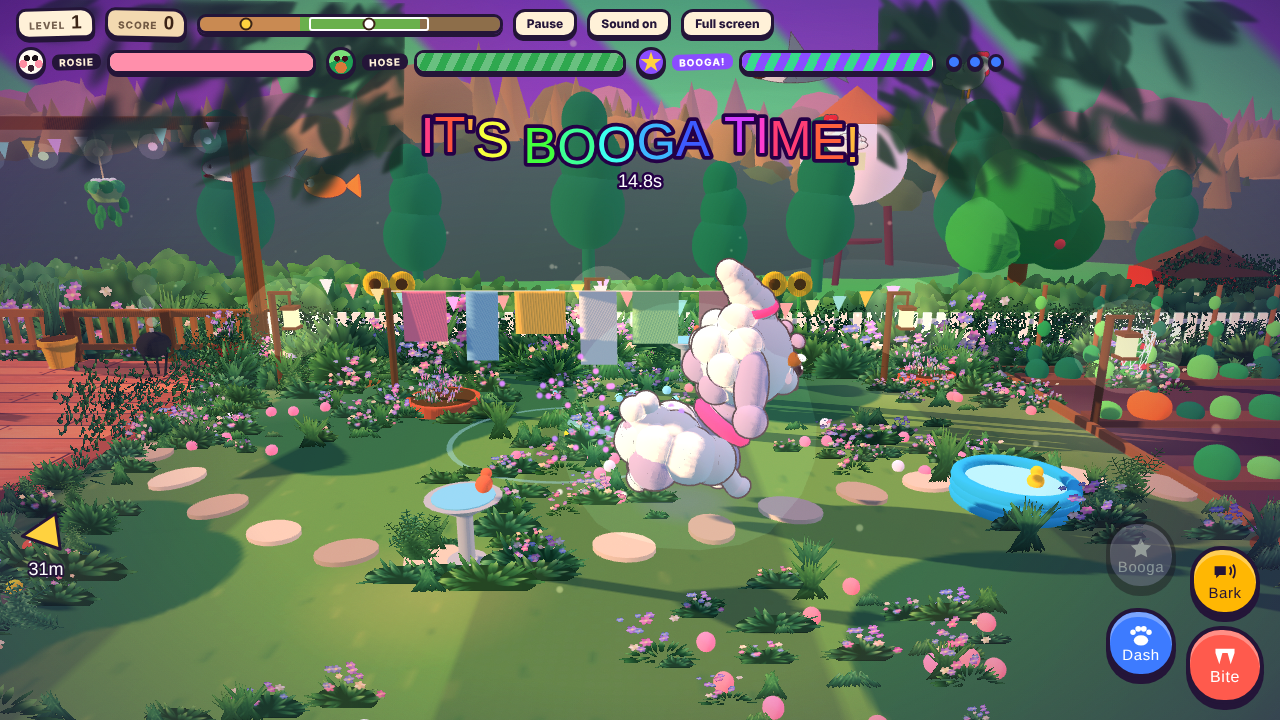
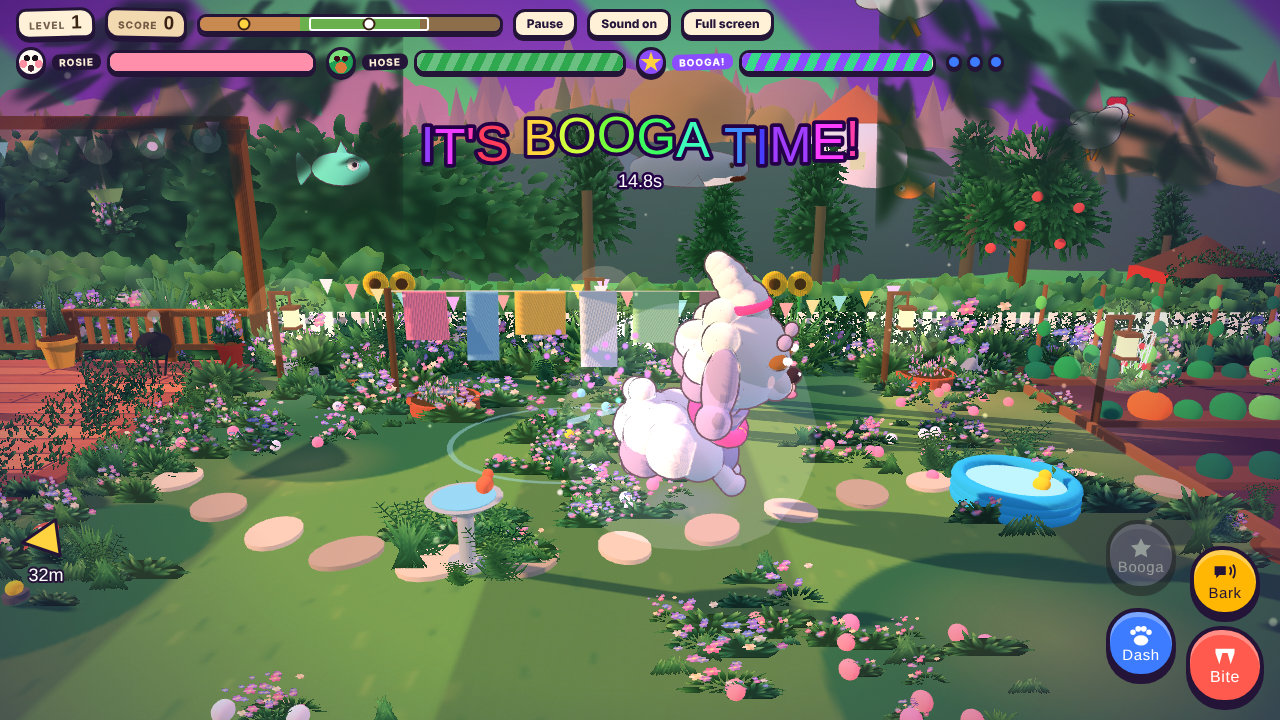
feat: repaint the yard as a painted garden
Builds design/art/painted-garden.md. A 1024 atlas painted at runtime
from individual tapered leaf and petal strokes feeds about 1,650
alpha-tested billboard plants in a single draw call, replacing the fence
shrubs, flower rosettes, pot plants, hanging baskets, tomato cages,
poplars and the apple tree. Two blurred leaf masses parented to the
camera frame the shot and get out of the way under a telegraph.

The silhouettes are ragged at every depth now, which was the diagnosis:
the gap was edge quality and empty ground, not colour.

Draw calls fall from 535 to 300, because one instanced billboard mesh
replaces hundreds of primitive solids.

Flagged honestly: the fight harness could not be run this session, and
times out identically on the pre-pass backup, so it is unverified rather
than passing. Diggy-Down's 712px overshoot is unchanged.

Refs: design/art/painted-garden.md

Claude-Session: https://claude.ai/code/session_01JR8fsw3Uh5kViP8MJWMfnz

diff --git a/src/index.html b/src/index.html
@@ -1399,11 +1399,12 @@ const FANU={a:{value:new THREE.Vector4(0,0,1,0)},b:{value:new THREE.Vector4(0,0,
    the leaves. alphaTest .5 / transparent false: no sorting, still writes depth, Rosie stays occluded
    correctly. uFanA/uFanB squash any plant standing inside a live telegraph to a quarter height so a
    warning can never lose to a flower (section 3). */
-function folMat(bb){
-  const m=new THREE.MeshToonMaterial({map:FOL_TEX,gradientMap:RAMP,alphaTest:.5,transparent:false,side:THREE.DoubleSide});
+function folMat(bb,mp,cs){
+  const CS=(cs||.25).toFixed(4);
+  const m=new THREE.MeshToonMaterial({map:mp||FOL_TEX,gradientMap:RAMP,alphaTest:.5,transparent:false,side:THREE.DoubleSide});
   m.onBeforeCompile=sh=>{
     sh.uniforms.uFanA=FANU.a;sh.uniforms.uFanB=FANU.b;
-    let v=sh.vertexShader.replace('#include <uv_vertex>','vUv = uv*0.25 + aCell;');
+    let v=sh.vertexShader.replace('#include <uv_vertex>','vUv = uv*'+CS+' + aCell;');
     if(bb){
       v=v.replace('#include <beginnormal_vertex>',[
         'vec3 iO = instanceMatrix[3].xyz;',
@@ -1422,18 +1423,45 @@ function folMat(bb){
     }
     sh.vertexShader='attribute vec2 aCell;\nuniform vec4 uFanA;\nuniform vec4 uFanB;\n'+v;
   };
-  m.customProgramCacheKey=()=>bb?'folBB':'folFX';
+  m.customProgramCacheKey=()=>(bb?'folBB':'folFX')+CS;
   return m;}
+/* ---- painted tree canopies (2x2 cells of 256): dense, airy, tall-poplar, far-blurred ----
+   Same technique as the ground foliage: a canopy is 120 individual leaf strokes with a ragged
+   outline, not three stacked balls. Distance is carried by per-instance tint plus the fog. */
+const FCU2=i=>[(i%2)*.5,.5-Math.floor(i/2)*.5];
+const TREE_TEX=ctex(512,512,1,1,g=>{
+  const S=256,TP=[['#102c1b','#1c4a2a','#2e7140','#46965a'],['#15311d','#245833','#3c8147','#66b066'],['#0e2718','#1a4428','#2b6639','#478d53']];
+  const lf=(c,x0,y0,len,ang,wid,p,lit)=>{const tx=x0+Math.cos(ang)*len,ty=y0+Math.sin(ang)*len,mx=(x0+tx)/2,my=(y0+ty)/2,
+      nx=-Math.sin(ang)*wid,ny=Math.cos(ang)*wid,gr=c.createLinearGradient(x0,y0,tx,ty);
+    gr.addColorStop(0,p[0]);gr.addColorStop(.5,p[1]);gr.addColorStop(1,p[lit?3:2]);
+    c.fillStyle=gr;c.beginPath();c.moveTo(x0,y0);c.quadraticCurveTo(mx+nx*1.2,my+ny*1.2,tx,ty);c.quadraticCurveTo(mx-nx,my-ny,x0,y0);c.fill();};
+  const canopy=(c,n,p,cx,cy,rx,ry,core)=>{
+    if(core){c.save();c.globalAlpha=.92;c.fillStyle=p[0];c.beginPath();c.ellipse(cx,cy-ry*.1,rx*.7,ry*.62,0,0,7);c.fill();c.restore();}
+    for(let i=0;i<n;i++){const a=r2()*6.283,q=Math.pow(r2(),.55),ox=cx+Math.cos(a)*rx*q*.9,oy=cy+Math.sin(a)*ry*q*.86,
+        dir=Math.atan2(oy-cy,ox-cx)+(r2()-.5)*.9;
+      lf(c,ox,oy,20+r2()*36,dir,4.5+r2()*8.5,p,oy>cy-ry*.1);}};
+  const cell=(i,fn)=>{const col=i%2,row=Math.floor(i/2);g.save();g.beginPath();g.rect(col*S+2,row*S+2,S-4,S-4);g.clip();
+    g.translate(col*S,(row+1)*S);g.scale(1,-1);fn(g);g.restore();};
+  cell(0,c=>canopy(c,132,TP[0],128,124,120,116,true));
+  cell(1,c=>canopy(c,104,TP[1],128,126,118,112,false));
+  cell(2,c=>canopy(c,116,TP[2],128,130,64,124,true));
+  {const off=document.createElement('canvas');off.width=off.height=S;const oc=off.getContext('2d');
+   oc.translate(0,S);oc.scale(1,-1);canopy(oc,110,TP[1],128,124,116,112,true);
+   g.save();g.filter='blur(5px)';g.drawImage(off,S,S);g.restore();g.filter='none';}
+});
+TREE_TEX.wrapS=TREE_TEX.wrapT=THREE.ClampToEdgeWrapping;TREE_TEX.repeat.set(1,1);
+const CAN=[];
+const canopy=(x,z,y,w,h,cell,tint)=>CAN.push({x:x,z:z,y:y,w:w,h:h,c:cell,t:tint,ry:0});
 const FQ=new THREE.PlaneGeometry(1,1).translate(0,.5,0);
 /* instance banks: FOL = camera-facing yard planting, FIVY = wall-flat ivy sheets */
 const FOL=[],FIVY=[];
 const plant=(x,z,w,h,cell,tint,ry,bank,y)=>{(bank||FOL).push({x:x,z:z,w:w,h:h,c:cell,t:tint,ry:ry||0,y:y||0});return true;};
-function buildFol(list,bb){
+function buildFol(list,bb,mp,cs,cu){
   if(!list.length)return null;
   const geo=FQ.clone(),cells=new Float32Array(list.length*2),d=new THREE.Object3D(),col=new THREE.Color();
-  for(let i=0;i<list.length;i++){const u=FCU(list[i].c);cells[i*2]=u[0];cells[i*2+1]=u[1];}
+  for(let i=0;i<list.length;i++){const u=(cu||FCU)(list[i].c);cells[i*2]=u[0];cells[i*2+1]=u[1];}
   geo.setAttribute('aCell',new THREE.InstancedBufferAttribute(cells,2));
-  const im=new THREE.InstancedMesh(geo,folMat(bb),list.length);
+  const im=new THREE.InstancedMesh(geo,folMat(bb,mp,cs),list.length);
   for(let i=0;i<list.length;i++){const p=list[i];
     d.position.set(p.x,p.y||0,p.z);d.rotation.set(0,p.ry,0);d.scale.set(p.w,p.h,1);d.updateMatrix();im.setMatrixAt(i,d.matrix);
     im.setColorAt(i,col.set(p.t).convertSRGBToLinear());}
@@ -1536,7 +1564,8 @@ const BULB_C=['#ffd98a','#ff8fb8','#8fe0ff','#b8f28a'].map(c=>new THREE.Color(c)
 anim.push(()=>{const k=lightK();bulbMs.forEach((m,i)=>m.color.copy(BULB_C[i]).multiplyScalar(.55+.45*k));bulbGlowM.opacity=.2*k;winM.color.copy(LAMP_C).multiplyScalar(.5+.5*k);});
 const leafM=M('#3fa34d',{roughness:.8}),leafD=M('#2e8b3e',{roughness:.8}),leafL=M('#56c271',{roughness:.8});
 for(const [x,c,fc] of [[215,'#f4a259',null],[485,'#e76f51','#ff4f79'],[760,'#90be6d','#ffffff']]){const g=grp(scene,x,290,-26);cyl(g,M('#e9d8a6'),1.2,100,0,55,0,false);
-  add(g,new THREE.CylinderGeometry(26,16,22,16),M(c),0,-6,0,1,1,1);for(let k=0;k<7;k++){const a=k/7*Math.PI*2;sph(g,k%2?leafM:leafL,11,Math.cos(a)*18,8,Math.sin(a)*18);sph(g,leafM,6,Math.cos(a)*24,-22-(k%3)*12,Math.sin(a)*24,1,2.2,1);if(fc)sph(g,M(fc),5,Math.cos(a)*14,18,Math.sin(a)*14);}
+  add(g,new THREE.CylinderGeometry(26,16,22,16),M(c),0,-6,0,1,1,1);{const q=[];for(let k=0;k<4;k++)q.push({x:(r2()-.5)*14,y:-56-r2()*16,z:(r2()-.5)*14,w:62+r2()*22,h:84+r2()*26,c:fc?4+Math.floor(r2()*3):7+Math.floor(r2()*2),ry:k*.8+r2()*.3});
+   cluster(g,q);}
   anim.push(tt=>{g.rotation.z=Math.sin(tt*1.2+x)*.05;});}
 /* lawn fence */
 box(scene,whiteM2,2040,8,6,2020,72,-26);box(scene,whiteM2,2040,8,6,2020,30,-26);
@@ -1545,7 +1574,8 @@ box(scene,whiteM2,6,8,DEPTH+80,3030,72,DEPTH/2);box(scene,whiteM2,6,8,DEPTH+80,3
 /* the 27 fence-line shrub spheres are now billboard instances -- see the density block below */
 for(const x of [1190,1236,1880,1924]){cyl(scene,leafM,3,130,x,65,-46);const h=grp(scene,x,134,-42);add(h,G_C,M('#ffd23f'),0,0,0,22,4,22).rotation.x=Math.PI/2;add(h,G_C,M('#6b3e1e'),0,0,2,10,5,10).rotation.x=Math.PI/2;anim.push(tt=>{h.rotation.z=Math.sin(tt+x)*.1;});}
 /* apple tree + shed */
-cyl(scene,M('#6b4423'),16,200,2350,100,-150);for(const [x,y,z,r] of [[0,250,0,95],[-70,210,10,70],[75,215,-10,72],[-20,300,-20,62],[40,290,30,58]])sph(scene,r>70?leafD:leafM,r,2350+x,y,-150+z);
+cyl(scene,M('#6b4423'),16,200,2350,100,-150);for(const [x,y,z,r] of [[0,180,0,95],[-70,150,10,70],[75,155,-10,72],[-20,215,-20,62],[40,205,30,58],[10,250,0,66]])
+  canopy(2350+x,-150+z,y,r*2.6,r*2.4,r>70?0:1,r>70?'#eef2e8':'#dfe8df');
 for(const [x,y,z] of [[-40,230,70],[30,200,78],[70,260,50],[-10,280,60],[-80,190,55]])sph(scene,M('#ff4f4f',{roughness:.3}),9,2350+x,y,-150+z);
 box(scene,M('#c0392b'),190,140,130,2710,70,-180);{const r=add(scene,G_K4,M('#5c3d2e'),2710,172,-180,150,66,110);r.rotation.y=Math.PI/4;}box(scene,whiteM2,44,92,4,2710,46,-113);box(scene,winM,34,26,4,2650,95,-113,false);
 /* backdrop v2: three baked ridge layers, a toy water tower, lollipop poplars (no ink, no shadows) */
@@ -1598,8 +1628,9 @@ box(scene,M('#c0392b'),190,140,130,2710,70,-180);{const r=add(scene,G_K4,M('#5c3
   sph(tw,M('#e9e4f5'),170,0,396,0,1,.8,1,false);cone(tw,M('#b8644a'),150,120,0,572,0,false);
   add(tw,G_B,winM,-28,400,166,44,52,10,false).rotation.y=-.17;
   /* seven poplars behind the railing and the fence: trunk plus three stacked balls, one baked mesh */
-  const pg=grp(scene),pm=M('#1f6b4f');for(const [x,z,h] of [[560,-820,470],[1090,-640,380],[1500,-900,520],[1840,-600,340],[2120,-780,450],[2560,-880,500],[2960,-660,320]]){
-    cyl(pg,pm,h*.035,h*.5,x,h*.25,z,false);sph(pg,pm,h*.2,x,h*.42,z,1,1.15,1,false);sph(pg,pm,h*.165,x+h*.02,h*.66,z,1,1.15,1,false);sph(pg,pm,h*.12,x-h*.01,h*.86,z,1,1.2,1,false);}
+  const pg=grp(scene),pm=M('#4a4535');for(const [x,z,h] of [[560,-820,470],[1090,-640,380],[1500,-900,520],[1840,-600,340],[2120,-780,450],[2560,-880,500],[2960,-660,320]]){
+    cyl(pg,pm,h*.035,h*.5,x,h*.25,z,false);
+    for(let k=0;k<3;k++)canopy(x+(r2()-.5)*h*.09,z+(r2()-.5)*40,h*(.14+k*.20),h*(.56-k*.07),h*(.50-k*.07),k?2:0,['#d4dcea','#c6d2e4','#dde4ef'][k]);}
   noSh(bake(pg,pm));}
 /* art v3 item 10: five painted bands, not eight blobs -- flatter (y .22), wider (x 1.8), each with a
    rose underside slab, and baked per material so the whole cloud layer costs 10 draw calls, not 48. */
@@ -1647,7 +1678,7 @@ for(const o of OBST){const g=grp(scene,o.x,0,zOf(o.y)),r=o.r;
     const b=grp(g,18,72,0);sph(b,M('#e76f51'),8,0,0,0,1.2,.9,.9);sph(b,M('#e76f51'),5,8,6,0);cone(b,M('#ffb703'),2,6,14,6,0).rotation.z=-Math.PI/2;anim.push(tt=>{b.position.y=72+Math.abs(Math.sin(tt*5))*4;b.rotation.y=Math.sin(tt*.7)*1.5;});}
   else if(o.k==='pool'){const pm=M('#39b9ea',{roughness:.3});for(let k=0;k<3;k++)add(g,new THREE.TorusGeometry(r-4,7,10,32),pm,0,7+k*9,0,1,1,1).rotation.x=Math.PI/2;cyl(g,M('#9be4f5',{roughness:.05}),r-6,2,0,22,0,false);
     const d=grp(g,0,27,0);sph(d,M('#ffd23f',{roughness:.3}),9,0,0,0,1.2,.8,.9);sph(d,M('#ffd23f',{roughness:.3}),6,8,7,0);cone(d,M('#ff9f1c'),2.4,6,15,6,0).rotation.z=-Math.PI/2;anim.push(tt=>{d.position.set(Math.sin(tt*.8+o.x)*r*.4,27+Math.sin(tt*3)*1.5,Math.cos(tt*.6)*r*.3);d.rotation.y=tt*.5;});}
-  else if(o.k==='cage'){sph(g,leafM,14,-3,22,0);sph(g,leafD,13,5,44,2);sph(g,leafM,11,-2,64,-2);const tm=M('#e63946',{roughness:.25});sph(g,tm,6,10,30,8);sph(g,tm,6,-10,48,7);sph(g,tm,5,6,62,6);sph(g,tm,5,-8,30,-9);
+  else if(o.k==='cage'){cluster(g,[{x:0,y:2,z:0,w:46,h:84,c:8,ry:.2},{x:0,y:0,z:0,w:40,h:72,c:7,ry:1.25}]);const tm=M('#e63946',{roughness:.25});sph(g,tm,6,10,30,8);sph(g,tm,6,-10,48,7);sph(g,tm,5,6,62,6);sph(g,tm,5,-8,30,-9);
     add(g,new THREE.CylinderGeometry(24,11,84,8,3,true),new THREE.MeshBasicMaterial({color:'#b9c1c9',wireframe:true}),0,42,0,1,1,1,false);}
   else if(o.k==='barrow'){const rm=M('#e63946',{roughness:.4});add(g,new THREE.CylinderGeometry(30,20,24,4),rm,2,38,0,1.25,1,.85).rotation.y=Math.PI/4;cyl(g,M('#4a2f1c',{roughness:1}),20,4,2,50,0).scale.set(26,4,17);
     const w=cyl(g,M('#222222'),12,8,30,12,0);w.rotation.x=Math.PI/2;for(const dz of [-12,12]){const h=cyl(g,M('#5b3a22'),2,52,-34,34,dz);h.rotation.z=Math.PI/2-.25;box(g,M('#5b3a22'),3,26,3,-20,13,dz);}}
@@ -2106,6 +2137,9 @@ function updCritters(dt){
   /* the deck is the other half of the frame and the doc's zone table does not reach it. Planting
      goes BEHIND the two rails -- a deep border outside the playable deck -- never on the planks,
      because foliage sprouting from decking reads as a bug, not a garden. */
+  /* a distant treeline above the hedge, so the bare ground plane never shows between the two */
+  for(let i=0;i<78;i++){const x=-500+r2()*1800,z=-360-r2()*420,h=210+r2()*180;
+    canopy(x,z,20+r2()*90,h*(1+r2()*.5),h,3,['#e2e8f0','#d6dfee','#eaeef4'][i%3]);}
   /* a blurred far hedge closes the horizon behind the deck, where the bare ground plane showed */
   for(let i=0;i<120;i++){const x=-260+r2()*1340,z=-112-r2()*r2()*130,h=150+r2()*118;
     plant(x,z,h*(1.1+r2()*.55),h,pick1(FAR),tint());}
@@ -2117,7 +2151,7 @@ function updCritters(dt){
     plant(x,z,h*(.95+r2()*.55),h,c,tint());}
   for(let i=0;i<54;i++){const x=-60+r2()*1070,z=-20-r2()*18,h=30+r2()*34;   /* spilling over the rail foot */
     plant(x,z,h*(1.2+r2()*.7),h,r2()<.5?pick1(FLW):pick1(GRS),tint());}
-  const folI=buildFol(FOL,true),ivyI=buildFol(FIVY,false);
+  const folI=buildFol(FOL,true),ivyI=buildFol(FIVY,false),canI=buildFol(CAN,true,TREE_TEX,.5,FCU2);
   /* the telegraph squash uniform: up to two live fans, lerped so plants duck rather than pop */
   const _fa=[0,0],_ft=[0,0];
   anim.push(()=>{const live=attacks.filter(a=>a.t<a.tele&&a.o).slice(0,2);
